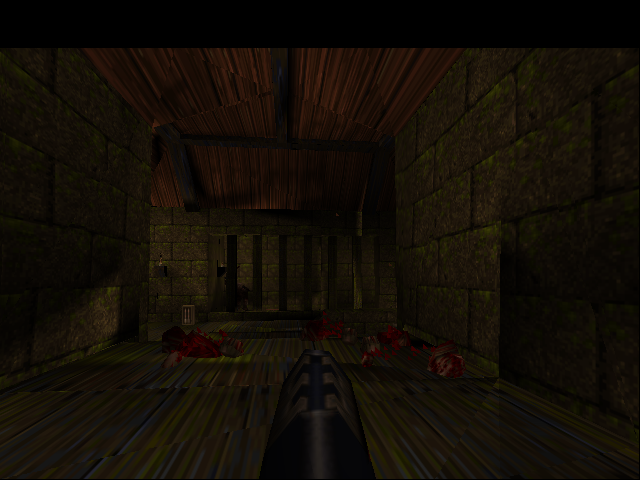
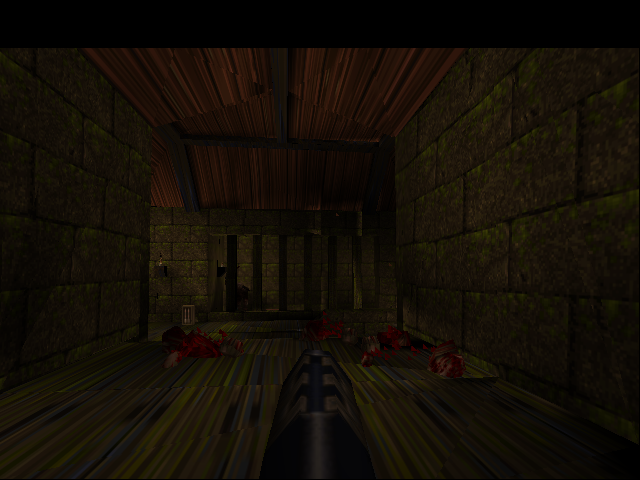
tgl_engine: fix lightmap black-triangle artifacts (normalize invw by zmin)
The perspective denominator invw = zp.z was normalized per-triangle by zmax,
which drives the far vertex's invw toward 0.  Base-texture UVs are large (Quake
tiles them) so they survived, but a surface's lightmap UVs are tiny (its luxels
are a small patch of the 128^2 atlas) -- uv*invw then underflowed the Q12
fixed-point to 0, sampling a garbage/black luxel per triangle.  Result: hard
black triangular wedges on distant/grazing lightmapped surfaces.

Normalize by zmin instead so the smallest invw is 1.  The perspective divide is
scale-invariant, so the result matches TinyGL exactly -- only the fixed-point
conditioning improves and the small lightmap UVs survive.  (Bisected with
r_fullbright 1: no lightmap pass = clean.)

Docs: Learnings #4 + regenerated dynamic-light frames with the fixed build.

diff --git a/tgl_engine.cc b/tgl_engine.cc
@@ -108,15 +108,21 @@ static void submit(ZBuffer *zb, ZBufferPoint *a, ZBufferPoint *b, ZBufferPoint *
   if (textured) {
     // zp.z (TinyGL screen depth, near=large) is affine in 1/w, so it is the
     // perspective denominator: u = interp(uv*z)/interp(z) reproduces TinyGL's
-    // own ss = sz/z exactly.  Per-triangle normalize by zmax (cancels in the
-    // ratio) to keep 1/w near O(1) for the fixed-point setup.
-    long zmax = 1;
-    for (int i = 0; i < 3; i++) if (vin[i]->z > zmax) zmax = vin[i]->z;
-    float izmax = 1.0f / (float)zmax;
+    // own ss = sz/z exactly.  Normalize per-triangle by *zmin* so the smallest
+    // invw is 1 (the divide is scale-invariant, so the result is unchanged).
+    // Normalizing by zmax instead pushes the far vertex's invw toward 0, and
+    // small lightmap UVs (~0.1) then underflow uv*invw to 0 in Q12 fixed point,
+    // sampling garbage luxels -> hard black triangles on distant surfaces.
+    long zmin = vin[0]->z;
+    for (int i = 1; i < 3; i++) if (vin[i]->z < zmin) zmin = vin[i]->z;
+    if (zmin < 1) zmin = 1;
+    float izmin = 1.0f / (float)zmin;
     for (int i = 0; i < 3; i++) {
       uv[i][0] = (float)(vin[i]->s - ZB_POINT_S_MIN) * S_DEN;
       uv[i][1] = (float)(vin[i]->t - ZB_POINT_T_MIN) * T_DEN;
-      invw[i]  = (float)vin[i]->z * izmax;
+      float iw = (float)vin[i]->z * izmin;     // >= 1
+      if (iw > 262144.0f) iw = 262144.0f;      // clamp so iw_start (Q12) stays in int32
+      invw[i] = iw;
     }
   } else {
     for (int i = 0; i < 3; i++) { uv[i][0] = uv[i][1] = 0.0f; invw[i] = 1.0f; }

diff --git a/docs/glquake.md b/docs/glquake.md
@@ -211,12 +211,33 @@ bound name gets its own `GLTexture` so its pixmap pointer is a stable key for th
 engine-side residency cache. (The mip chain GLQuake uploads is discarded; the
 engine builds its own.)
 
+### 4. Lightmaps and a fixed-point underflow
+
+The first lightmapped build had hard **black triangular wedges** on distant
+walls and floors. Rendering with `r_fullbright 1` (no lightmap pass) was clean,
+so the bug was in the lightmap pass — and it tracked grazing angles, the
+fingerprint of a precision problem.
+
+The engine interpolates `u/w`, `t/w`, `1/w` and divides per pixel; we feed it
+`invw = zp.z` normalized per triangle. The original normalization divided by
+`zmax`, which drives the *far* vertex's `invw` toward 0. Base-texture UVs are
+large (Quake tiles textures), so they survived; but a surface's **lightmap** UVs
+are tiny (its luxels are a small patch of the 128² atlas), and `uv·invw` then
+underflowed the Q12 fixed-point to 0 — a garbage texture coordinate that sampled
+the wrong (often black) luxel, per triangle, hence the hard edges.
+
+The fix is a one-liner: normalize by `zmin` instead, so the smallest `invw` is 1.
+The perspective divide is scale-invariant, so the *result* is unchanged — only
+the fixed-point conditioning improves, and the small lightmap UVs survive.
+
 ### Meta-lesson
 
-Two of three show-stoppers were **a small mismatch crashing somewhere far away**
-(a truncated offset → VM segfault; a vertex overflow → texture-bind crash). A
-cheap, always-available signal — the per-frame triangle count — was worth more
-than any single debugger session for localizing them.
+Three of four show-stoppers were **a small mismatch surfacing somewhere far away**
+(a truncated offset → VM segfault; a vertex overflow → texture-bind crash; a
+fixed-point underflow → black triangles). Cheap, always-available signals — the
+per-frame triangle/texload/lm_update counts, and one-flag toggles like
+`r_fullbright` to bisect the pipeline — were worth more than any single debugger
+session for localizing them.
 
 ## Status & next
 
